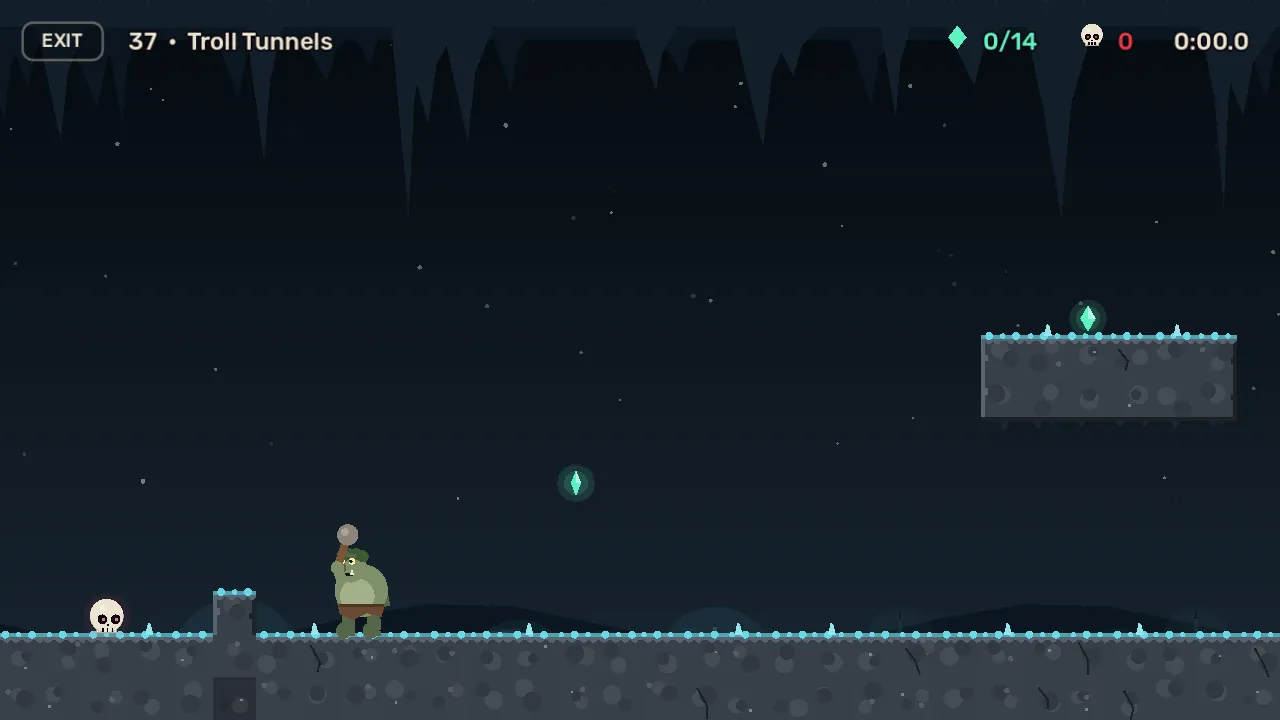
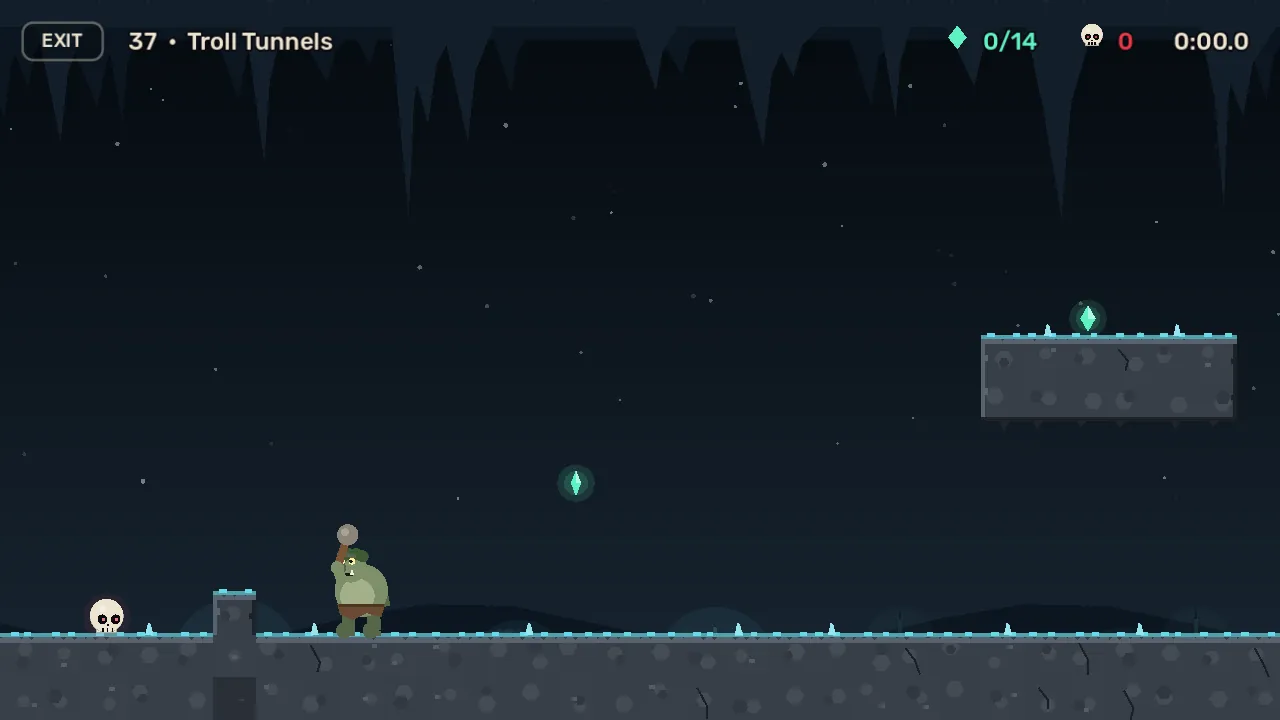
Fix lag in the cave levels: cheaper stone drawing
The stone tiles drew several circles per cell, and caves are mostly rock,
so the cave levels drew 3-7x more than older levels. Stone now uses
rectangles and small polygons, deep rock is plain, and hanging
stalactites stop redrawing every frame. Primitives per frame in level 37
went from about 168k to 20k (about the same as earlier levels).

Claude-Session: https://claude.ai/code/session_01QMA259kJY5isNXoSpeKVx7

diff --git a/CLAUDE.md b/CLAUDE.md
@@ -136,6 +136,10 @@ Walls 10+ tiles tall are used in levels as "can't climb this".
 - Themes `cave` and `hollow` set `"style": "stone"`: `TileChunk.draw_block` draws rough rock
   (`_draw_stone_block`: lumps, cracks, pebbles, moss/crystal tops, drips under ceilings) instead
   of bricks. Cave rooms are about 15 tiles tall; only the puzzle tunnels are low.
+- **Tile drawing must stay cheap**: caves are mostly rock and every visible cell is drawn every
+  frame. No `draw_circle` in tile code (one circle is a big polygon; circles per cell made the
+  cave levels 3-7x slower). Use rects and small polygons (`_lump`), and keep deep rock plain.
+  Objects that sit still (hanging stalactites) shouldn't `queue_redraw()` every frame.
 - `!` falling stalactite (`falling_stalactite.gd`, `draw_stalactite`): in the cell under a ceiling.
   Triggers when the skull is under it (±40 px, up to 16 tiles down, nothing solid between),
   shakes 0.5 s, falls (deadly only while falling), shatters, regrows after 3 s. Running under
